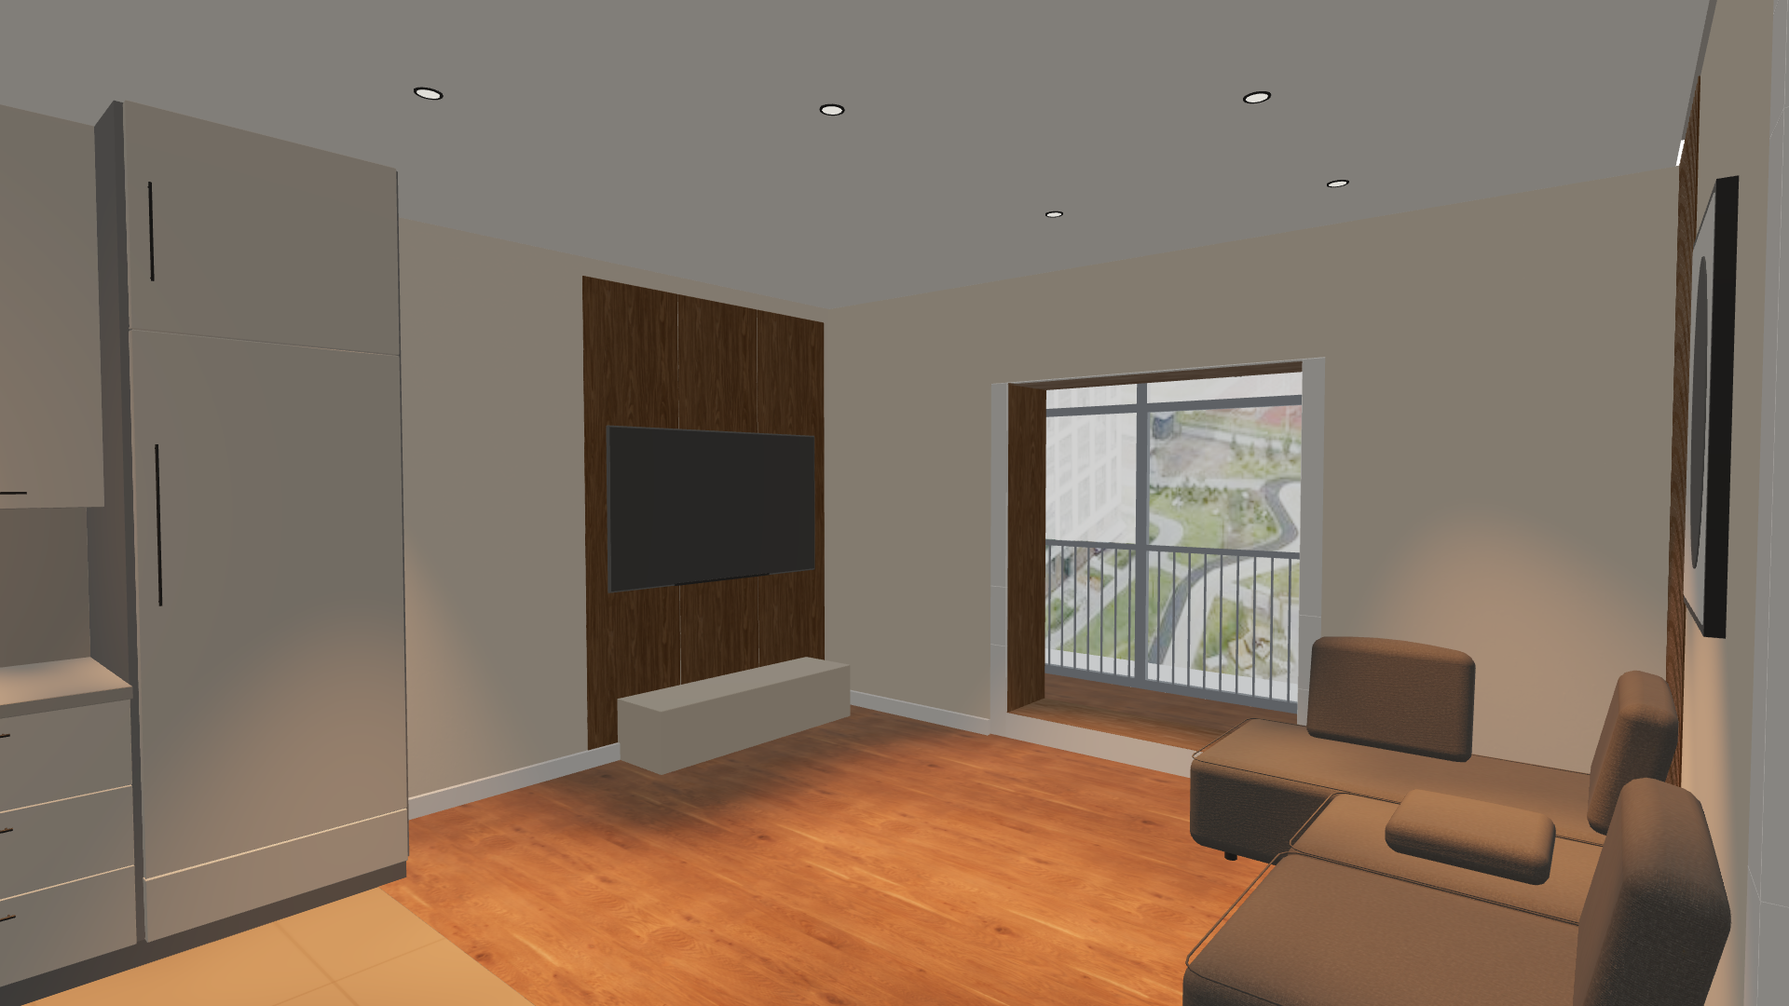
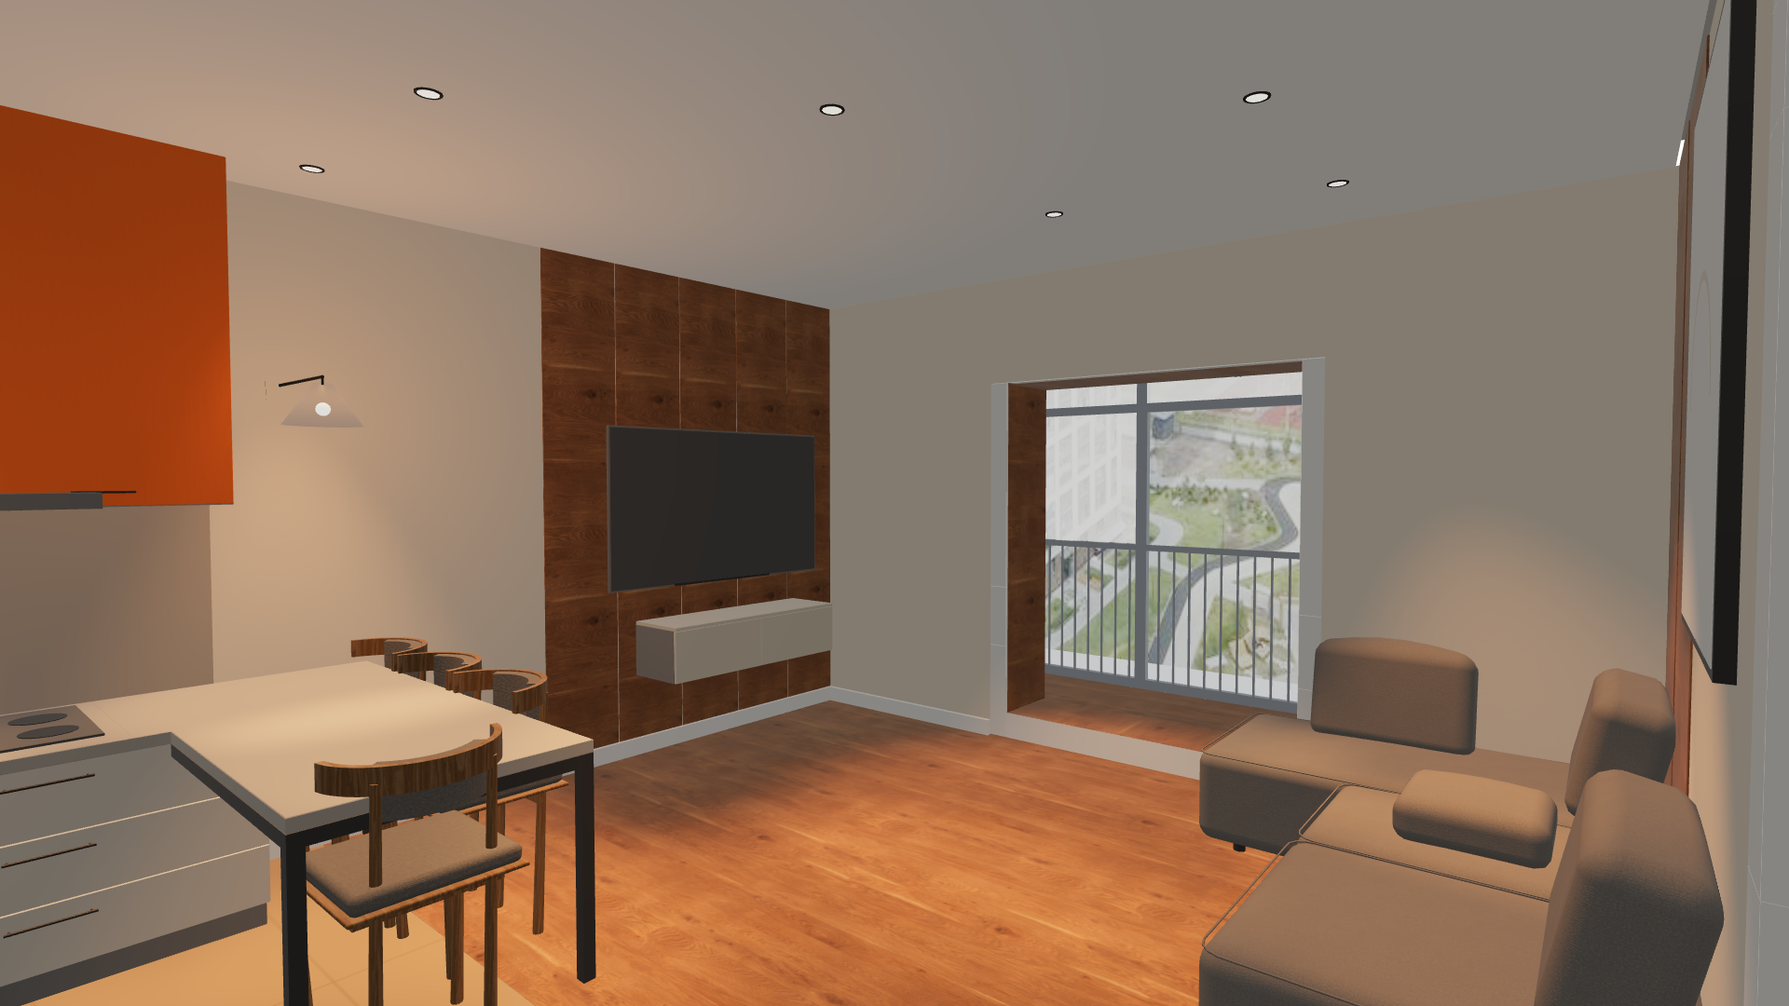
комната 4: рыжие фасады навесных шкафов в кухнях F–I, шире шов между дверцами, декор ТВ D на доску уже
Покрытие oakOrange — набор дуба без карты цвета, плоский рыжий плюс рельеф
волокон: число дверц читается из комнаты, чего не давал дуб.

Шов между дверцами навесных шкафов 3 мм → 8 мм: 3 мм пропадают на рендере,
и два широких шкафа варианта I сливались в один.

Декор стены за ТВ, вариант D: пять досок на 2.10 вместо шести на 2.52,
восточный край на месте.

diff --git a/items.js b/items.js
@@ -145,7 +145,7 @@ const PHYS={}; // id → boxes
   const KSINK=[0.73,1.43], KHOB=[2.06,2.56];  // sink cut-out 0.70 and hob module 0.50 along z; the worktop strip x < 0.13 behind the bowl carries the mixer and the dispenser
   // worktop top at 0.75 (user 2026-09-11): base carcass 0.10–0.71, slab 0.712–0.75; columns and wall units keep their heights
   function kitchenBuild(b,g,mode){ const corner=mode!=='A', I=mode==='I', H=mode==='H'||I, G=mode==='G'||H, LX1=H?KLX[1]+0.35:KLX[1], F=mode==='F'||G, Z1=I?2.19:F?2.29:KZ1, HOB=G?[0.70,1.20]:F?[1.79,2.29]:KHOB, SINK=I?[1.39,2.09]:G?[1.49,2.19]:KSINK; // F: fridge column moved next to the appliance column (z 2.29–2.99), run shortened, hob beside the column; G: F with the hob at the corner and the sink 0.10 short of the column; H: short leg 0.35 longer (LX1); I: hob on the short leg under its own wall unit, fridge column 0.80 (z 2.19–2.99), wall units over corner and run as one 4-door block
-     const gap=0.003, front=(y0,y1,z0,z1,m)=>b.round(KC,KC+0.02,y0+gap/2,y1-gap/2,z0+gap/2,z1-gap/2,0.001,m); // fronts face +x; carcasses sit behind them so the 3 mm gaps read as dark lines
+     const gap=0.003, ugap=0.008, front=(y0,y1,z0,z1,m)=>b.round(KC,KC+0.02,y0+gap/2,y1-gap/2,z0+gap/2,z1-gap/2,0.001,m); // fronts face +x; carcasses sit behind them so the gaps read as dark lines; ugap on wall-unit doors — 3 mm vanishes in a render, 8 mm still shows how many doors there are
      const doors=(x0,x1,z0,z1,rows,m)=>rows.forEach(([y0,y1])=>b.round(x0,x1,y0+gap/2,y1-gap/2,z0,z1,0.002,m)); // 40 mm column doors, flush with the worktop edge
      /* proxy = pre-detail AABBs (realism-all A) */
      if(!corner) b.phys(0,KD+0.03,0,2.69,0,0.70);                                                                       // A: fridge column in the north corner
@@ -163,9 +163,9 @@ const PHYS={}; // id → boxes
        doors(KC,KD,0.02,0.68,[[0.10,0.30],[0.30,2.00],[2.00,2.69]],mat.base);                                           // drawer below, fridge door, freezer above
        b.handle(KD,1.40,0.06,0.5,'y','x'); b.handle(KD,2.30,0.06,0.3,'y','x'); }
      else { b(0,KC,0.1,0.71,0,0.70,mat.hdark); b(0,KP,0,0.1,0,0.70,mat.dark); front(0.1,0.71,0,0.70,mat.base);          // B: blind corner base with a plain panel (the short leg blocks it)
-       b(0,0.34,1.45,2.69,0,0.70,mat.hdark); if(!I) b.round(0.34,0.36,1.45+gap/2,2.69-gap/2,(F?0:0.36)+gap/2,0.70-gap/2,0.001,mat.upper); // corner wall unit: B a narrow door past the short-leg unit, F (no units on the short leg) a full 0.70 door up to the wall
+       b(0,0.34,1.45,2.69,0,0.70,mat.hdark); if(!I) b.round(0.34,0.36,1.45+ugap/2,2.69-ugap/2,(F?0:0.36)+ugap/2,0.70-ugap/2,0.001,mat.upper); // corner wall unit: B a narrow door past the short-leg unit, F (no units on the short leg) a full 0.70 door up to the wall
        if(F&&!I) b.handle(0.36,1.50,0.60,0.16,'z','x');
-       if(I){ b(0.36,LX1,1.45,2.69,0,0.34,mat.hdark); [[0.36,1.07],[1.07,LX1]].forEach(([x0,x1])=>{ b.round(x0+gap/2,x1-gap/2,1.45+gap/2,2.69-gap/2,0.34,0.36,0.001,mat.upper); b.handle((x0+x1)/2,1.50,0.36,0.16,'x','z'); }); } // I: wall unit over the short leg, the hob sits under it
+       if(I){ b(0.36,LX1,1.45,2.69,0,0.34,mat.hdark); [[0.36,1.07],[1.07,LX1]].forEach(([x0,x1])=>{ b.round(x0+ugap/2,x1-ugap/2,1.45+ugap/2,2.69-ugap/2,0.34,0.36,0.001,mat.upper); b.handle((x0+x1)/2,1.50,0.36,0.16,'x','z'); }); } // I: wall unit over the short leg, the hob sits under it
        if(H){ // H (user 2026-09-11, .local/bar): the worktop runs on along the north wall to PX1 and bends into a peninsula 0.80×1.80 towards the room, 0.82 off the west run's worktop (user: 0.80) — one 40 mm slab on a slim 40×40 frame, open underneath
          const bar=polyXZ([[KLX[1],0.002],[PX1-0.002,0.002],[PX1-0.002,1.798],[PX0+0.002,1.798],[PX0+0.002,KD-0.002],[KLX[1],KD-0.002]]);
          g.add(new THREE.Mesh(new THREE.ExtrudeGeometry(bar,{depth:0.036,bevelThickness:0.002,bevelSize:0.002,bevelSegments:1,curveSegments:2}).rotateX(Math.PI/2).translate(0,0.748,0),mat.top));
@@ -178,7 +178,7 @@ const PHYS={}; // id → boxes
        b(0.02,KLX[1],0.75,1.45,0,0.02,mat.wpanel);                                                                      // splashback of the short leg
        if(F){ b(0,KC,0.1,2.69,Z1,KZ1,mat.hdark); b(0,KP,0,0.1,Z1,KZ1,mat.dark);                                         // F: fridge column between the run and the appliance column, short leg stays worktop only (an island or bar may grow from it later)
          doors(KC,KD,Z1+0.02,KZ1-0.02,[[0.10,0.30],[0.30,2.00],[2.00,2.69]],mat.base); b.handle(KD,1.40,Z1+0.06,0.5,'y','x'); b.handle(KD,2.30,Z1+0.06,0.3,'y','x'); }
-       else { b(0.36,KLX[1],1.45,2.69,0,0.34,mat.hdark); [[0.36,0.90],[0.90,KLX[1]]].forEach(([x0,x1])=>{ b.round(x0+gap/2,x1-gap/2,1.45+gap/2,2.69-gap/2,0.34,0.36,0.001,mat.upper); b.handle((x0+x1)/2,1.50,0.36,0.16,'x','z'); }); // B: wall units, 2 doors
+       else { b(0.36,KLX[1],1.45,2.69,0,0.34,mat.hdark); [[0.36,0.90],[0.90,KLX[1]]].forEach(([x0,x1])=>{ b.round(x0+ugap/2,x1-ugap/2,1.45+ugap/2,2.69-ugap/2,0.34,0.36,0.001,mat.upper); b.handle((x0+x1)/2,1.50,0.36,0.16,'x','z'); }); // B: wall units, 2 doors
          const FX=KLX[1], FW=0.80; b(FX,FX+FW,0.1,2.69,0,KC,mat.hdark); b(FX,FX+FW,0,0.1,0,KP,mat.dark);                // fridge column at the east end of the short leg
          doors(FX+0.02,FX+FW-0.02,KC,KD,[[0.10,0.30],[0.30,2.00],[2.00,2.69]],mat.base);
          b.handle(FX+0.07,1.40,KD,0.5,'y','z'); b.handle(FX+0.07,2.30,KD,0.3,'y','z'); } }
@@ -249,7 +249,7 @@ const PHYS={}; // id → boxes
     A:b=>{ DEC.slats(b,0,0.40,0,2.60); DEC.boards(b,0.40,2.52,0,2.60,4,DEC.paint); DEC.glow(b,0,2.52,2.60,2.62); },                       // slat strip + painted boards, LED cove under the ceiling
     B:b=>{ for(let r=0;r<4;r++) DEC.boards(b,0,2.52,r*0.626,r*0.626+0.622,3,DEC.paint); DEC.glow(b,0,2.52,2.50,2.52); },              // 3×4 painted tiles, LED cove
     C:b=>{ DEC.boards(b,0.65,2.45,0,2.60,3,DEC.wood); DEC.glow(b,0.63,0.65,0,2.60); },                                                  // three wide oak boards, LED on the left edge
-    D:b=>DEC.boards(b,0,2.52,0,2.70,6,DEC.wood),                                                                                        // oak boards over the whole wall, no light
+    D:b=>DEC.boards(b,0,2.10,0,2.70,5,DEC.wood),                                                                                        // oak boards, no light; one board narrower than the wall, west edge moved east (user 2026-09-11)
     E:b=>{ DEC.slats(b,0,0.50,0,2.70); DEC.shape(b,b.rrect(1.98,2.19,0.29),0.54,0.28,0,0.004,mat.led); DEC.shape(b,b.rrect(1.94,2.15,0.27),0.56,0.30,0.004,0.02,DEC.paint); }, // panel ends at x 2.52 = the east wall // rounded painted panel with a halo, slats on the left (mirrored: the wall ends at the tv side)
     F:b=>{ DEC.slats(b,0,2.52,0,2.70,0.012); const D=r=>{ const sh=new THREE.Shape(); sh.moveTo(2.52,1.4-r); sh.lineTo(1.5,1.4-r); sh.absarc(1.5,1.4,r,-Math.PI/2,Math.PI/2,true); sh.lineTo(2.52,1.4+r); sh.closePath(); return sh; };
       DEC.shape(b,D(0.97),0,0,0.012,0.016,mat.led); DEC.shape(b,D(0.95),0,0,0.016,0.02,mat.dark); [1.3,1.65,2.0].forEach(y=>b(0.03,0.45,y,y+0.025,0.012,0.27,DEC.wood)); }, // dark half-disc with a halo on a slat wall, three shelves on the left
@@ -261,7 +261,8 @@ const PHYS={}; // id → boxes
     B:b=>{ b.round(0,0.55,0,2.70,0,0.02,0.002,DEC.wood); b.round(0.61,1.25,0,2.70,0,0.02,0.002,DEC.wood); DEC.glow(b,0.55,0.61,0,2.70); DEC.art(b,1.5,2.35,1.2,2.4); // two oak boards with a LED slot, relief picture on the painted part
       b.group.add(new THREE.Mesh(new THREE.RingGeometry(0.25,0.27,32,1,0,Math.PI).translate(1.925,1.7,0.053),mat.wpanel)); },
     C:b=>{ DEC.slats(b,0,0.95,0,2.70); DEC.glow(b,0.95,0.99,0,2.70); DEC.art(b,1.55,2.15,1.25,2.10); DEC.shape(b,DEC.ellipse(1.93,1.68,0.17,0.32),0,0,0.052,0.055,mat.dark); }}; // slat panel, LED slot, black-and-white picture
-  Object.keys(DECOR_TV).forEach(k=>DECOR_TV[k]=DEC.wall(2.52,DECOR_TV[k])); Object.keys(DECOR_SOFA).forEach(k=>DECOR_SOFA[k]=DEC.wall(2.51,DECOR_SOFA[k]));
+  const DEC_TV_W={D:2.10};   // a variant narrower than the wall: the panel keeps its east edge, pos shifts east by the difference
+  Object.keys(DECOR_TV).forEach(k=>DECOR_TV[k]=DEC.wall(DEC_TV_W[k]||2.52,DECOR_TV[k])); Object.keys(DECOR_SOFA).forEach(k=>DECOR_SOFA[k]=DEC.wall(2.51,DECOR_SOFA[k]));
   const ITEMS=[
     // ---- kitchen-living room 4 (sketch .local/R1.jpg) ----
     {id:'kitchen',type:'кухонный блок',room:4,layer:'kitchen',pos:[8.23,KN],rot:0,size:[0.74,2.69,3.59],fixed:'wall',coat:{base:'hplFront',upper:'hplFront',top:'hplPanel',wpanel:'hplPanel'}, // 2026-09-10: matte HPL fronts, worktop and splashback one HPL panel of the same tone; carcass, plinth, hob and metal stay class twins
@@ -1037,6 +1038,7 @@ const PHYS={}; // id → boxes
   const led8V=L=>({pos:[8.55,2.575],size:[0.03,1.45,L],build(b){ b.led(0,0.03,1.43,1.45,0,L); }}), LED8_F=led8V(1.63), LED8_I=led8V(1.53); // F/G/H: the strip ends with the wall units at z 2.29; I: fridge column from 2.19
   const STOOL_ITEMS=Object.fromEntries(Object.entries(STOOLS).map(([id,st])=>[id,stoolSpec(st)]));
   const WOOD_UP={upper:'oakFurniture'}; // D/E (user 2026-09-10, .local/kitchen-wood): A/B as they are, wall-unit doors in oak
+  const ORANGE_UP={upper:'oakOrange'};  // F–I (user 2026-09-11): bright ginger wall-unit fronts with a faint grain — the number of doors reads from the room
   // dining table B (.local/examples2): stadium-shaped oak top 0.90×1.80 on two round drums, same centre as A so the six chairs keep their places
   const TABLE_B={pos:[9.80,KN+0.04],size:[0.90,0.76,1.80],coat:{table:'oakFurniture'},build:(b,g)=>{
     b.phys(0,0.90,0.72,0.76,0,1.80); [0.45,1.35].forEach(z=>b.phys(0.26,0.64,0,0.72,z-0.19,z+0.19));
@@ -1053,9 +1055,9 @@ const PHYS={}; // id → boxes
   const SET_D={table:TABLE_D,chair1:ch4(9.49,3.765,'W',90),chair2:ch4(10.53,3.765,'E',-90),chair3:ch4(10.01,3.245,'N',180),chair4:ch4(10.01,4.285,'S',0),chair5:null,chair6:null};
   const R4={table:{ids:['table','chair1','chair2','chair3','chair4','chair5','chair6'],V:{B:{items:{table:TABLE_B}},C:{items:SET_C},D:{items:SET_D}}},sofa:{ids:['sofa'],V:Object.fromEntries(Object.entries(SOFA4).map(([k,v])=>[k,sofaV(v,k)]))},
     kitchen:{ids:['kitchen','lamp','led8','stool1','stool2','stool3','stool4'],V:{B:{items:{kitchen:kitchenV('B',2.23),lamp:null}},D:{items:{kitchen:kitchenV('A',0.74,WOOD_UP)}},E:{items:{kitchen:kitchenV('B',2.23,WOOD_UP),lamp:null}},
-      F:{items:{kitchen:kitchenV('F',1.43,WOOD_UP),led8:LED8_F}},G:{items:{kitchen:kitchenV('G',1.43,WOOD_UP),led8:LED8_F}},H:{items:Object.assign({kitchen:kitchenV('H',PX1,WOOD_UP),led8:LED8_F},STOOL_ITEMS),pick:{table:'none'}},I:{items:Object.assign({kitchen:kitchenV('I',PX1,WOOD_UP),led8:LED8_I},STOOL_ITEMS),pick:{table:'none'}}}}, // the peninsula stands where the dining sets are: H switches the table off // lamp over the table sits inside B's fridge column: hidden in B/E; F's wall units end at z 2.29, so the LED strip stops there too
+      F:{items:{kitchen:kitchenV('F',1.43,ORANGE_UP),led8:LED8_F}},G:{items:{kitchen:kitchenV('G',1.43,ORANGE_UP),led8:LED8_F}},H:{items:Object.assign({kitchen:kitchenV('H',PX1,ORANGE_UP),led8:LED8_F},STOOL_ITEMS),pick:{table:'none'}},I:{items:Object.assign({kitchen:kitchenV('I',PX1,ORANGE_UP),led8:LED8_I},STOOL_ITEMS),pick:{table:'none'}}}}, // the peninsula stands where the dining sets are: H switches the table off // lamp over the table sits inside B's fridge column: hidden in B/E; F's wall units end at z 2.29, so the LED strip stops there too
    
-    decortv:{ids:['decortv'],V:Object.fromEntries(Object.keys(DECOR_TV).map(k=>[k,{pos:[10.95,KN],size:[2.52,2.7,{F:0.27,G:0.22}[k]||0.02],coat:k==='D'?DEC.floorCoat:DEC.coat,build:DECOR_TV[k]}]))}, // F/G: shelves stand off the wall
+    decortv:{ids:['decortv'],V:Object.fromEntries(Object.keys(DECOR_TV).map(k=>{ const w=DEC_TV_W[k]||2.52; return [k,{pos:[10.95+2.52-w,KN],size:[w,2.7,{F:0.27,G:0.22}[k]||0.02],coat:k==='D'?DEC.floorCoat:DEC.coat,build:DECOR_TV[k]}]; }))}, // F/G: shelves stand off the wall
     decorsofa:{ids:['decorsofa'],V:Object.fromEntries(Object.keys(DECOR_SOFA).map(k=>[k,{pos:[13.47,6.287],size:[2.51,2.7,0.06],coat:DEC.floorCoat,build:DECOR_SOFA[k]}]))},
     console:{ids:['console'],V:{B:{pos:[11.775,KN],size:[1.45,0.34,0.42],coat:{cabinetPaint:'cabinetPaint'},build:b=>{ b.phys(0,1.45,0,0.34,0,0.42); b.round(0,1.45,0,0.34,0,0.42,0.004,mat.wbody); }}}}, // B: floor plinth 0.34 high (user: +0.20), 250 mm longer than A, centred under the tv (.local/консоль.png)
     tv:{ids:['tv'],V:{B:{pos:[11.72,KN+0.02],size:[1.56,1.825,0.04],build:(b,g)=>{ ITEMS.find(i=>i.id==='tv').build(b,g); g.userData.proxy=[[0,1.56,0.925,1.825,0,0.04]]; // B: A scaled 1.2 (58" → 70") about the screen centre, still on the wall

diff --git a/index.html b/index.html
@@ -153,7 +153,7 @@ input[type=range]{width:100%;accent-color:var(--accent)}
   <div class="row"><label for="k4sofa">Диван</label><select id="k4sofa" aria-label="Диван в комнате 4" title="A — низкий блок 2 м с тремя подушками; B — скруглённый модульный с изогнутой спинкой, шезлонг у стены; C — угловой по фото сверху, уголок у восточной стены; D — тот же угловой, уголком к проходу в коридор; E — серый трёхместный с шезлонгом к проходу на стальных ножках; F — квадратный модульный двухместный с толстыми подлокотниками; G — низкий букле модульный с шезлонгом у стены"><option value="none">нет</option><option value="A">A</option><option value="B">B</option><option value="C">C</option><option value="D">D</option><option value="E">E</option><option value="F">F</option><option value="G" selected>G</option></select></div>
   <div class="row"><label for="k4decorsofa">Диван декор</label><select id="k4decorsofa" aria-label="Декор зоны дивана в комнате 4" title="Стена за диваном (.local/декор): A — дубовые панели на всю стену; B — две дубовые панели с LED-щелью слева, рельефная картина справа; C — реечная панель слева, LED-щель, чёрно-белая картина"><option value="none">нет</option><option value="A">A</option><option value="B" selected>B</option><option value="C">C</option></select></div>
   <div class="row"><label for="k4tv">ТВ</label><select id="k4tv" aria-label="Телевизор в комнате 4"><option value="none">нет</option><option value="A">A</option><option value="B" selected>B</option></select></div>
-  <div class="row"><label for="k4decortv">ТВ декор</label><select id="k4decortv" aria-label="Декор зоны ТВ в комнате 4" title="Стена за ТВ (.local/декор): A — крашеные панели с полосой реек слева и LED-нишей под потолком; B — крашеные плиты 3×4 с LED-нишей; C — три широкие дубовые панели, LED по левому краю; D — дуб на всю стену без подсветки; E — крашеная панель со скруглёнными углами и контурной подсветкой, рейки слева; F — тёмный полукруг с подсветкой на реечной стене, три полки слева; G — реечная стена с LED-кольцом, овальная панель и полка; H — каменная плита с подсветкой по трём краям на реечной стене"><option value="none">нет</option><option value="A">A</option><option value="B">B</option><option value="C">C</option><option value="D" selected>D</option><option value="E">E</option><option value="F">F</option><option value="G">G</option><option value="H">H</option></select></div>
+  <div class="row"><label for="k4decortv">ТВ декор</label><select id="k4decortv" aria-label="Декор зоны ТВ в комнате 4" title="Стена за ТВ (.local/декор): A — крашеные панели с полосой реек слева и LED-нишей под потолком; B — крашеные плиты 3×4 с LED-нишей; C — три широкие дубовые панели, LED по левому краю; D — дуб, на одну доску уже стены, без подсветки; E — крашеная панель со скруглёнными углами и контурной подсветкой, рейки слева; F — тёмный полукруг с подсветкой на реечной стене, три полки слева; G — реечная стена с LED-кольцом, овальная панель и полка; H — каменная плита с подсветкой по трём краям на реечной стене"><option value="none">нет</option><option value="A">A</option><option value="B">B</option><option value="C">C</option><option value="D" selected>D</option><option value="E">E</option><option value="F">F</option><option value="G">G</option><option value="H">H</option></select></div>
   <div class="row"><label for="k4console">ТВ консоль</label><select id="k4console" aria-label="Консоль под ТВ в комнате 4"><option value="none">нет</option><option value="A" selected>A</option><option value="B">B</option></select></div>
   </details>
   <details id="master" class="roomblk"><summary>Мастер спальня</summary>

diff --git a/materials.js b/materials.js
@@ -52,6 +52,7 @@ const COATINGS={
   oakFurniture:{name:'дуб, шпон мебели',     class:'wood',   dir:'textures/oakFurniture', size:[1.83,1.83], tint:[0.74,0.7,0.66]}, // grain along V = along legs/posts and the table length (z); muted against the reference
   oakFurnitureX:{name:'дуб, шпон мебели, волокна по x', class:'wood', dir:'textures/oakFurniture', size:[1.83,1.83], rotation:90, tint:[0.74,0.7,0.66]}, // M4: horizontal parts elongated along x (loggia desk); own texture object, oakFurniture keeps rotation 0
   pineFurniture:{name:'сосна, мебель светлая', class:'wood', dir:'textures/oakFurniture', size:[1.83,1.83], tint:[1.25,1.16,0.98]}, // 2026-09-10: dining tables C/D — the oak set lightened towards pine, no own texture set
+  oakOrange:  {name:'фасад рыжий, слабый рисунок дерева', class:'wood', dir:'textures/oakFurniture', size:[1.83,1.83], maps:['normal','rough'], color:0xef7d25, normalScale:0.22}, // 2026-09-11: навесные шкафы кухни F–I — albedo-карта снята, рисунок остаётся только рельефом, чтобы число дверц читалось
   cabinetPaint:{name:'крашеный МДФ, матовая эмаль', class:'cabinetPaint', size:[1,1], maps:[], color:0xd6cdbf, rough:0.42}, // 2026-09-09: no PaintedWood maps — the grain read as a strange texture; flat matte enamel like the reference wardrobe
   whiteEnamel: {name:'белая эмаль, техника',    class:'cabinetPaint', size:[1,1], maps:[], color:0xeeece8, rough:0.38}, // M4-3: washer/dryer body — the cabinetPaint set is beige, appliances are white
   wallPaint:   {name:'краска стен, тёплая светлая', class:'wallPaint', dir:'textures/wallPaint', size:[1,1], maps:['normal'], rough:0.9, color:0xe6ddd0, normalScale:0.08}, // Paint004 rough map gives glossy blotches under the environment; flat 0.9 instead,
